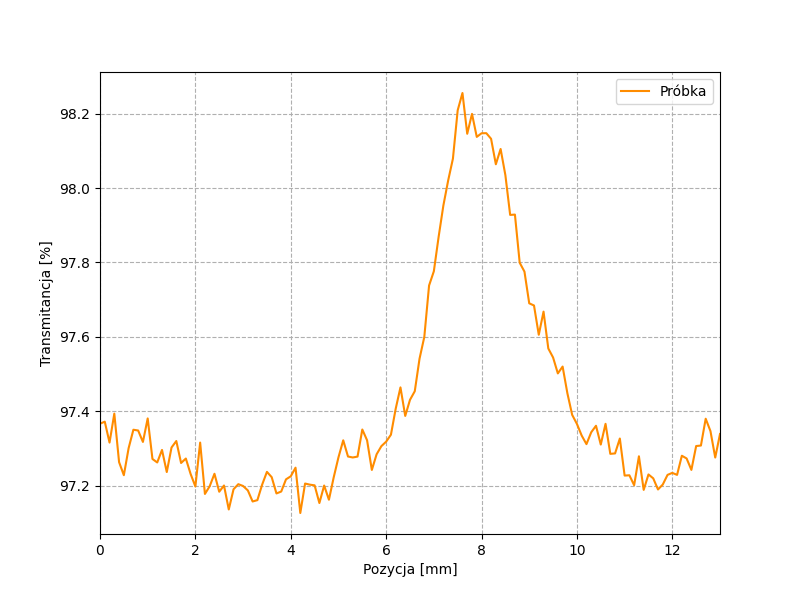
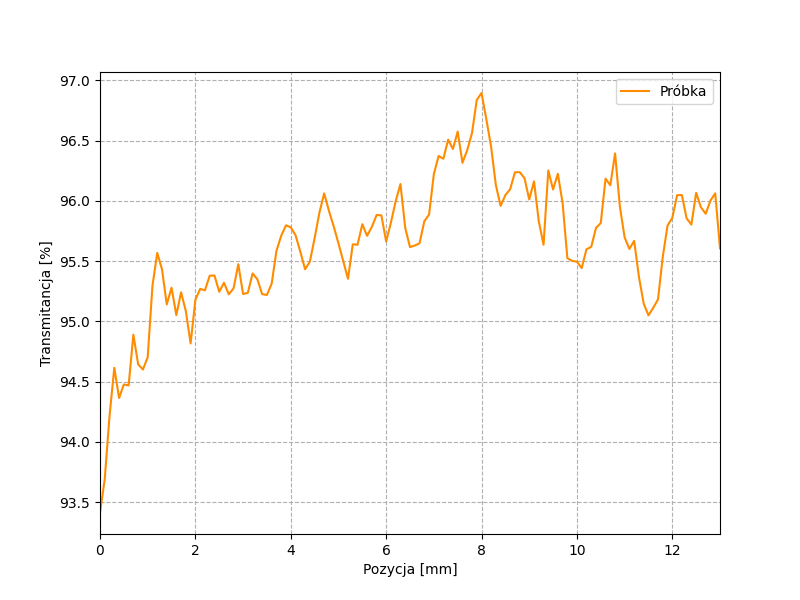
pomiary 130825

diff --git a/skrypty/transmittance_vs_position.py b/skrypty/transmittance_vs_position.py
@@ -4,14 +4,13 @@ import pandas as pd
 import os
 
 # wpisz ścieżkę do katalogu z danymi
-my_path = r'C:\Users\gosc\Desktop\Rezonatory2025\Rezonatory2025\pomiary\pomiary_120825'
-# wpisz nazwę pliku
-file = r'9_probka_120825.csv'
-file2 = r'9_szklo_120825.csv' 
+my_path = r'C:\Users\mkowa\Desktop\Julia\Rezonatory2025\pomiary\pomiary_130825'
+file = r'1_probka_130825.csv'
+file2 = r'1_szklo_130825.csv' 
 # nazwa katalogu zapisu
-save_path = r'C:\Users\gosc\Desktop\Rezonatory2025\Rezonatory2025\wyniki\wyniki_130825'
+save_path = r'C:\Users\mkowa\Desktop\Julia\Rezonatory2025\wyniki\wyniki_130825'
 # wpisz nazwę pliku do zapisu wykresus
-file_save = r'1_odjetewidma_130825_plot.png'
+file_save = r'1_merge_130825_plot.png'
 
 plt.figure(figsize=(8,6))
 
@@ -23,6 +22,7 @@ df1 = pd.DataFrame(data1)
 
 # P_soczewka = 0.481 #W moc za pierwszą soczewką
 P0 = 0.5 #W moc lasera
+P0 = 0.5*0.5
 
 P_wsp = 0.962
 P_ref = P0 * P_wsp #W moc padająca na próbkę
@@ -36,12 +36,14 @@ P2_wsp = P2/P_ref
 P_strat = 1 + (1 - P2_wsp) #czynnik strat (czyli ile więcej transmitancji ostatecznie jest)
 
 P1 = df['Power [W]']/P_ref * P_strat * 100
+P2 = P2 / P_ref *100
 
 z1 = df['Position [mm]']
 
 '''PLOT'''
 
 plt.plot(z1, P1, color='darkorange', label = 'Próbka')
+plt.plot(z1, P2, color='blue', label = 'Szkło')
 plt.xlabel('Pozycja [mm]')
 # plt.ylabel('Moc [W]')
 plt.ylabel('Transmitancja [%]')

diff --git a/skrypty/z_scan_complete.py b/skrypty/z_scan_complete.py
@@ -12,9 +12,9 @@ Library.enable_device_db_store()
 
 # ZMIEN NAZWE PLIKU !!!!!
 # katalog zapisu
-my_path = r'C:\Users\mkowa\Desktop\Julia\Rezonatory2025\pomiary\pomiary_120825'
+my_path = r'C:\Users\mkowa\Desktop\Julia\Rezonatory2025\pomiary\pomiary_130825'
 # nazwa pliku
-out_file = "9_szklo_120825.csv"
+out_file = "1_probka_130825.csv"
 # sciezka do pliku
 out = os.path.join(my_path, out_file)
 
